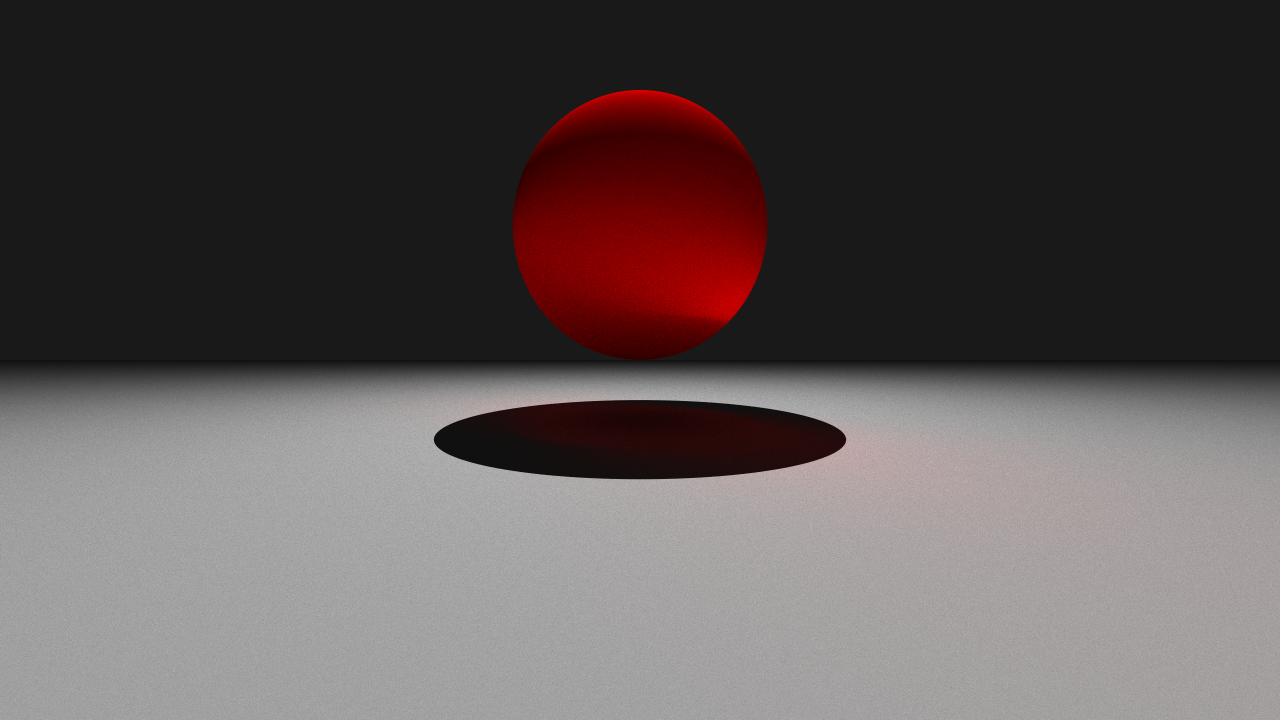
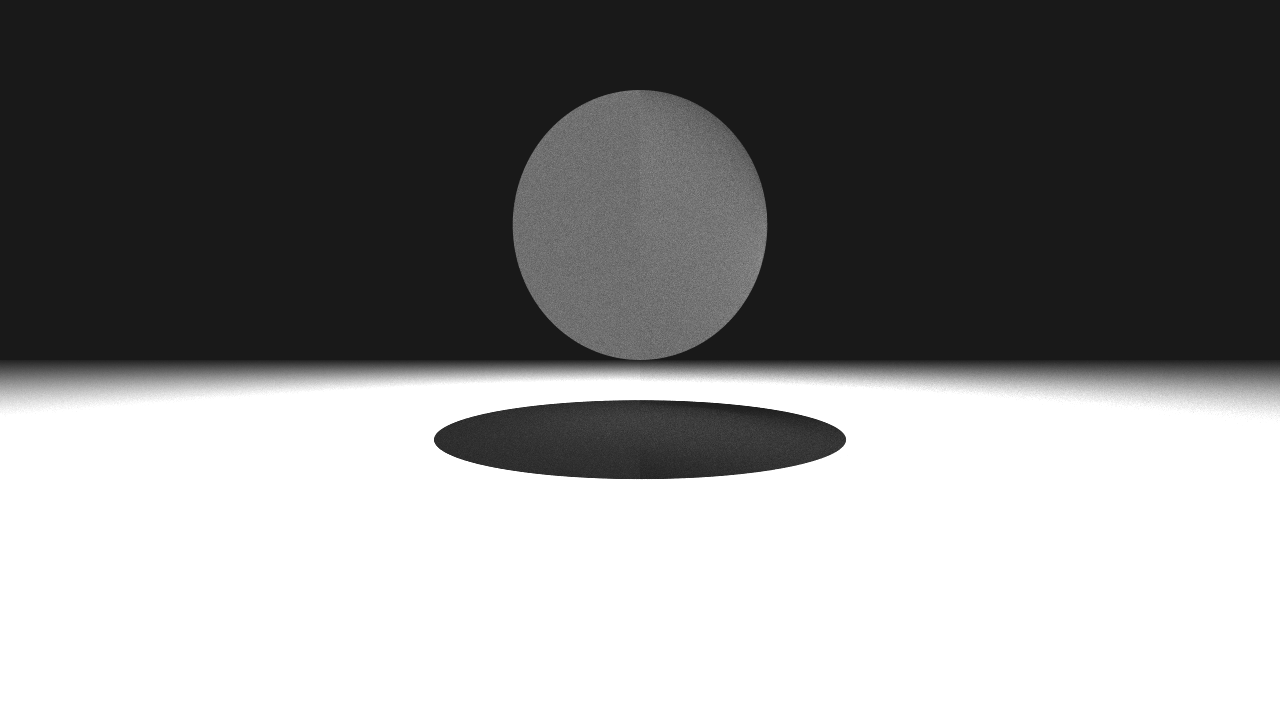
add quad

diff --git a/src/object/quad.rs b/src/object/quad.rs
@@ -1,0 +1,66 @@
+use crate::{
+    material::Material,
+    ray::Ray,
+    scene::FloatSize,
+    utils::vector::{Vec2, Vec3},
+};
+
+use super::{HitRecord, Hittable};
+
+#[derive(Debug)]
+pub struct Quad {
+    pub a: Vec3<FloatSize>,
+    pub b: Vec3<FloatSize>,
+    pub c: Vec3<FloatSize>,
+    pub d: Vec3<FloatSize>,
+    pub material: Material,
+}
+
+impl Quad {
+    pub fn new(
+        a: Vec3<FloatSize>,
+        b: Vec3<FloatSize>,
+        c: Vec3<FloatSize>,
+        d: Vec3<FloatSize>,
+        material: Material,
+    ) -> Quad {
+        Quad {
+            a,
+            b,
+            c,
+            d,
+            material,
+        }
+    }
+}
+
+impl Hittable for Quad {
+    fn hit(&self, ray: &Ray, t_min: FloatSize, t_max: FloatSize) -> Option<HitRecord> {
+        let normal = (self.b - self.a).cross(&(self.c - self.a)).normalize();
+        let t = (self.a - ray.origin).dot(&normal) / ray.direction.dot(&normal);
+        if t < t_min || t > t_max {
+            return None;
+        }
+        let point = ray.at(t);
+        let p = point - self.a;
+        let ab = self.b - self.a;
+        let ac = self.c - self.a;
+        let area_abc = ab.cross(&ac).length();
+        let area_pbc = p.cross(&ac).length();
+        let area_pca = ab.cross(&p).length();
+
+        let u = area_pbc / area_abc;
+        let v = area_pca / area_abc;
+
+        let front_face = ray.direction.dot(&normal) < 0.0;
+        let normal = if front_face { normal } else { -normal };
+        Some(HitRecord {
+            point,
+            normal,
+            t,
+            front_face,
+            material: &self.material,
+            uv: Some(Vec2::new([u, v])),
+        })
+    }
+}

diff --git a/src/main.rs b/src/main.rs
@@ -4,7 +4,7 @@ use pathtracer::{
     camera::Camera,
     light::pointlight::PointLight,
     material::Material,
-    object::{plane::Plane, sphere::Sphere},
+    object::{quad::Quad, sphere::Sphere},
     scene::FloatSize,
     utils::vector::Vec3,
 };
@@ -22,17 +22,27 @@ fn main() {
                     1.0,
                     Material {
                         albedo: Vec3::new([1.0, 0.0, 0.0]),
-                        reflectivity: 0.0,
+                        reflectivity: 1.0,
                     },
                 )),
-                Box::new(Plane::new(
-                    Vec3::new([0.0, 0.0, 0.0]),
-                    Vec3::new([0.0, 1.0, 0.0]),
+                Box::new(Quad::new(
+                    Vec3::new([1.0, 0.0, 1.0]),
+                    Vec3::new([1.0, 0.0, -1.0]),
+                    Vec3::new([-1.0, 0.0, -1.0]),
+                    Vec3::new([-1.0, 0.0, 1.0]),
                     Material {
-                        albedo: Vec3::new([0.5, 0.5, 0.5]),
+                        albedo: Vec3::new([1.0, 1.0, 1.0]),
                         reflectivity: 0.0,
                     },
                 )),
+                // Box::new(Plane::new(
+                //     Vec3::new([0.0, 0.0, 0.0]),
+                //     Vec3::new([0.0, 1.0, 0.0]),
+                //     Material {
+                //         albedo: Vec3::new([1.0, 0.5, 0.5]),
+                //         reflectivity: 0.0,
+                //     },
+                // )),
             ],
             lights: vec![Box::new(PointLight::new(
                 Vec3::new([0.0, 5.0, 0.0]),

diff --git a/src/scene/mod.rs b/src/scene/mod.rs
@@ -81,8 +81,9 @@ impl Scene {
                 if reflectivity > 0.0 {
                     let reflected_direction =
                         Material::reflect(&ray.direction.normalize(), &hit_record.normal);
-                    ray = Ray::new(hit_record.point, reflected_direction);
-                    throughput *= Vec3::new([reflectivity, reflectivity, reflectivity]);
+                    let new_ray = Ray::new(hit_record.point, reflected_direction);
+                    let color = &self.trace_ray(&new_ray, depth + 1, rand_state, is_left);
+                    return color.scale(reflectivity);
                 }
             } else {
                 return emitted + (throughput * self.skybox.color);

diff --git a/src/object/mod.rs b/src/object/mod.rs
@@ -1,6 +1,12 @@
-use crate::{material::Material, ray::Ray, scene::FloatSize, utils::vector::Vec3};
+use crate::{
+    material::Material,
+    ray::Ray,
+    scene::FloatSize,
+    utils::vector::{Vec2, Vec3},
+};
 
 pub mod plane;
+pub mod quad;
 pub mod sphere;
 
 // pub trait Hittable: Sync + Serialize + for<'a> Deserialize<'a> {
@@ -14,4 +20,5 @@ pub struct HitRecord<'a> {
     pub t: FloatSize,
     pub front_face: bool,
     pub material: &'a Material,
+    pub uv: Option<Vec2<FloatSize>>,
 }

diff --git a/src/pathtracer/mod.rs b/src/pathtracer/mod.rs
@@ -34,7 +34,7 @@ impl PathTracer {
                             &mut rand_state,
                         );
                         let is_left = x < self.width / 2;
-                        let color = scene.trace_ray(&ray, 10, &mut rand_state, false);
+                        let color = scene.trace_ray(&ray, 10, &mut rand_state, is_left);
                         row[x] += color.scale(1.0 / self.samples as FloatSize);
                     });
                 });

diff --git a/src/object/plane.rs b/src/object/plane.rs
@@ -32,6 +32,7 @@ impl Hittable for Plane {
                     t: distance,
                     front_face: true,
                     material: &self.material,
+                    uv: None,
                 });
             }
         }

diff --git a/src/object/sphere.rs b/src/object/sphere.rs
@@ -54,6 +54,7 @@ impl Hittable for Sphere {
             t: root,
             front_face,
             material: &self.material,
+            uv: None,
         })
     }
 }
